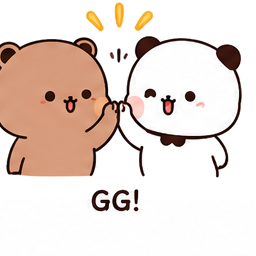
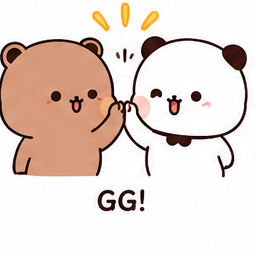
Wire animated GIF stickers (mapped BD_NN to catalog ids; per-sticker ext)

Changed region(s): [[0.1562, 0.0, 0.9688, 0.7188], [0.0, 0.125, 0.1875, 0.6875], [0.3438, 0.7188, 0.5625, 0.8438]]

diff --git a/shared/src/stickers.ts b/shared/src/stickers.ts
@@ -1,43 +1,52 @@
 /**
- * Catalog of all available stickers. The `id` matches the filename (without
- * extension) of the asset under client/public/stickers/. Both client and
- * server import this list — client renders the picker grid, server validates
- * incoming sendSticker events against this set.
+ * Catalog of all available stickers. Each entry references a file under
+ * client/public/stickers/ via {id}.{ext} — most are animated GIFs, gg is a
+ * still PNG. Both client and server import this list: client renders the
+ * picker grid + builds URLs from id+ext, server validates incoming
+ * sendSticker events against the id set.
  */
 export interface StickerInfo {
   id: string;
   label: string;
+  /** File extension (no dot). Lets us mix gif/png/webp in the same pack. */
+  ext: "gif" | "png" | "webp";
 }
 
 export const STICKERS: readonly StickerInfo[] = [
-  { id: "got-this",         label: "Got this!" },
-  { id: "no-way",           label: "No way!" },
-  { id: "thinking",         label: "Thinking..." },
-  { id: "my-sequence",      label: "My sequence!" },
-  { id: "on-fire",          label: "On fire!" },
-  { id: "just-wait",        label: "Just wait!" },
-  { id: "didnt-see-that",   label: "Didn't see that!" },
-  { id: "perfect-card",     label: "Perfect card!" },
-  { id: "sequence",         label: "Sequence!" },
-  { id: "blocked",          label: "Blocked!" },
-  { id: "jack-played",      label: "Jack played!" },
-  { id: "sequence-broken",  label: "Sequence broken!" },
-  { id: "watching-you",     label: "Watching you!" },
-  { id: "you-win",          label: "You win!" },
-  { id: "your-turn",        label: "Your turn!" },
-  { id: "bad-hand",         label: "Bad hand!" },
-  { id: "nice-move",        label: "Nice move!" },
-  { id: "oops",             label: "Oops!" },
-  { id: "hahaha",           label: "Hahaha!" },
-  { id: "good-luck",        label: "Good luck!" },
-  { id: "too-easy",         label: "Too easy!" },
-  { id: "love-this",        label: "Love this!" },
-  { id: "gg",               label: "GG!" },
-  { id: "good-game",        label: "Good game!" },
+  { id: "got-this",         label: "Got this!",         ext: "gif" },
+  { id: "no-way",           label: "No way!",           ext: "gif" },
+  { id: "thinking",         label: "Thinking...",       ext: "gif" },
+  { id: "my-sequence",      label: "My sequence!",      ext: "gif" },
+  { id: "on-fire",          label: "On fire!",          ext: "gif" },
+  { id: "just-wait",        label: "Just wait!",        ext: "gif" },
+  { id: "didnt-see-that",   label: "Didn't see that!",  ext: "gif" },
+  { id: "perfect-card",     label: "Perfect card!",     ext: "gif" },
+  { id: "sequence",         label: "Sequence!",         ext: "gif" },
+  { id: "blocked",          label: "Blocked!",          ext: "gif" },
+  { id: "jack-played",      label: "Jack played!",      ext: "gif" },
+  { id: "sequence-broken",  label: "Sequence broken!",  ext: "gif" },
+  { id: "watching-you",     label: "Watching you!",     ext: "gif" },
+  { id: "you-win",          label: "You win!",          ext: "gif" },
+  { id: "your-turn",        label: "Your turn!",        ext: "gif" },
+  { id: "bad-hand",         label: "Bad hand!",         ext: "gif" },
+  { id: "nice-move",        label: "Nice move!",        ext: "gif" },
+  { id: "oops",             label: "Oops!",             ext: "gif" },
+  { id: "hahaha",           label: "Hahaha!",           ext: "gif" },
+  { id: "good-luck",        label: "Good luck!",        ext: "gif" },
+  { id: "too-easy",         label: "Too easy!",         ext: "gif" },
+  { id: "love-this",        label: "Love this!",        ext: "gif" },
+  { id: "gg",               label: "GG!",               ext: "png" },
+  { id: "good-game",        label: "Good game!",        ext: "gif" },
 ] as const;
 
 export const STICKER_IDS: ReadonlySet<string> = new Set(STICKERS.map((s) => s.id));
 
 export function isValidStickerId(id: string): boolean {
   return STICKER_IDS.has(id);
+}
+
+/** Build the public URL path for a sticker, by id. */
+export function stickerUrlPath(id: string): string | null {
+  const s = STICKERS.find((x) => x.id === id);
+  return s ? `/stickers/${s.id}.${s.ext}` : null;
 }

diff --git a/client/src/components/StickerPicker.tsx b/client/src/components/StickerPicker.tsx
@@ -1,11 +1,11 @@
 import { useState } from "react";
-import { STICKERS } from "@sequence/shared";
+import { STICKERS, stickerUrlPath } from "@sequence/shared";
 
 interface Props {
   onSend: (stickerId: string) => void;
 }
 
-const STICKER_URL = (id: string) => `/stickers/${id}.png`;
+const STICKER_URL = (id: string) => stickerUrlPath(id) ?? "";
 
 /**
  * Floating sticker button (bottom-left) → opens a 6×4 grid picker popover.

diff --git a/client/src/components/StickerOverlay.tsx b/client/src/components/StickerOverlay.tsx
@@ -1,4 +1,5 @@
 import type { StickerBroadcast } from "@sequence/shared";
+import { stickerUrlPath } from "@sequence/shared";
 import { makeNickname } from "../lib/nickname";
 
 interface Props {
@@ -6,7 +7,7 @@ interface Props {
   stickers: StickerBroadcast[];
 }
 
-const STICKER_URL = (id: string) => `/stickers/${id}.png`;
+const STICKER_URL = (id: string) => stickerUrlPath(id) ?? "";
 
 /**
  * Floating overlay that shows incoming stickers from any player. Each sticker